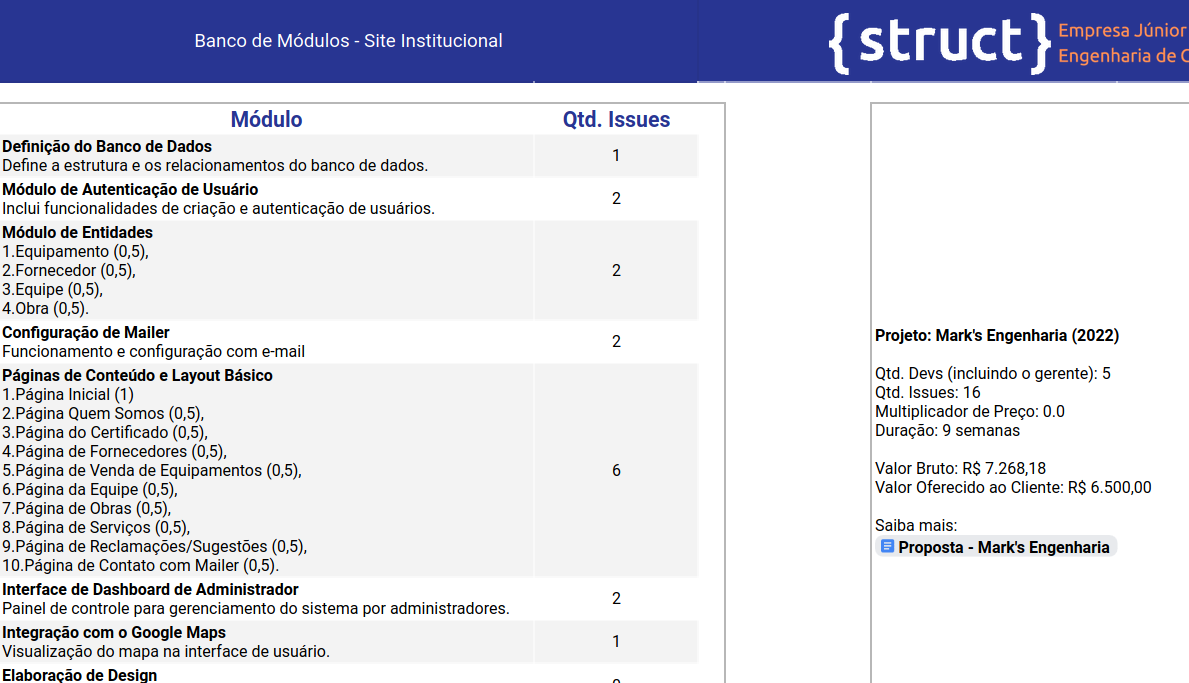
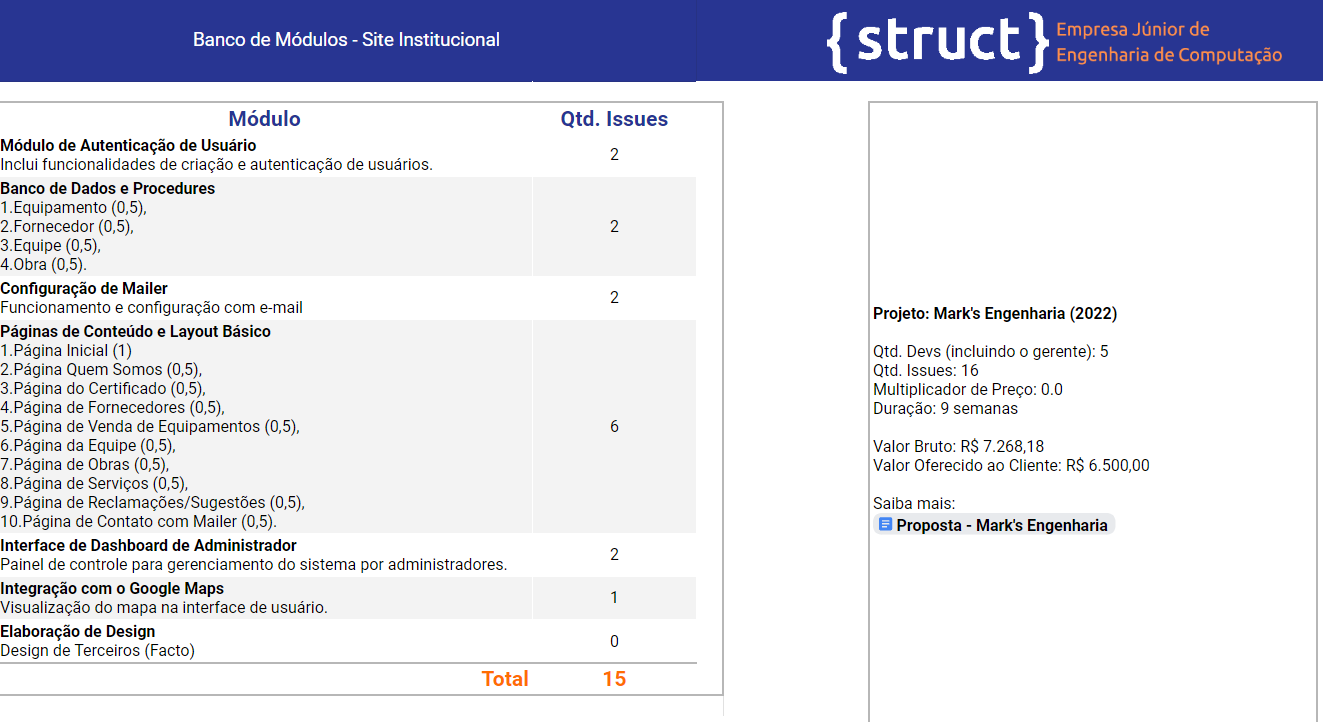
atualiza as informações

Changed region(s): [[0.0, 0.0, 1.0, 1.0], [0.6535, 0.3997, 0.9647, 0.8302]]

diff --git a/organizacao-interna/diretoria-comercial/preficicacao.md b/organizacao-interna/diretoria-comercial/preficicacao.md
@@ -42,7 +42,7 @@ Há algumas informações necessárias que você precisa saber antes de prossegu
 
 ## Metodologia de Precificação
 
-Para aplicar a nossa metodologia utilizamos uma [planilha :icon-link-external:](https://docs.google.com/spreadsheets/d/1D9zf_UfbokxbzPC7ISCn73gs7Sdq0HRHIehmjYmfDvU/edit?usp=sharing) que contém uma página de Cálculo de Orçamento, onde multiplicamos o valor/hora **(atualmente R$ 13,00)**, a quantidade de membros e a quantidade de issues para obter o orçamento total. Incluímos **1 ano de hospedagem com a Struct** para projetos de sites por **R$ 400,00** (não inclui o valor da anuidade do domínio do site). Nos anos seguintes, o valor será o mesmo, mas se haver ajustes de preço comunicamos ao cliente previamente. Além disso, é importante falar para o cliente que ele pode hospedar seus sites com outros provedores, se preferir.
+Para aplicar a nossa metodologia utilizamos uma [planilha :icon-link-external:](https://docs.google.com/spreadsheets/d/1D9zf_UfbokxbzPC7ISCn73gs7Sdq0HRHIehmjYmfDvU/edit?usp=sharing) que contém uma página de Cálculo de Orçamento, onde multiplicamos o valor/hora **(atualmente R$ 13,00)**, a quantidade de membros e a quantidade de issues para obter o orçamento total. Incluímos **1 ano de hospedagem com a Struct** para projetos de sites por **R$ 300,00** (não inclui o valor da anuidade do domínio do site). Nos anos seguintes, o valor será o mesmo, mas se haver ajustes de preço comunicamos ao cliente previamente. Além disso, é importante falar para o cliente que ele pode hospedar seus sites com outros provedores, se preferir.
 
 ![Cálculo de Orçamento](/organizacao-interna/assets/comercial/precificacao-calculoOrcamento.png)
 
@@ -55,14 +55,14 @@ A planilha possui diferentes páginas para cada tipo de projeto, como site insti
 ![Página Site Institucional](/organizacao-interna/assets/comercial/precificacao-paginaModulos.png)
 
 {% hint style="info" %}
-Nos módulos de **Entidades** e **Páginas de Conteúdo e Layout Básico**, usamos meia issue (0,5) para as entidades e páginas fáceis de implementar podendo aumentar ou diminuir o valor unitário da issue dependendo do projeto. Não existe meia issue na prática, porém foi definido assim por convenção devido a grande componentização e reúso de código dessas partes do projeto.
+Nos módulos de **Banco de Dados e Procedures** e **Páginas de Conteúdo e Layout Básico**, usamos meia issue (0,5) para as entidades e páginas fáceis de implementar podendo aumentar ou diminuir o valor unitário da issue dependendo do projeto. Não existe meia issue na prática, porém foi definido assim por convenção devido a grande componentização e reúso de código dessas partes do projeto.
 {% endhint %}
 
-A **quantidade de parcelas depende da duração do projeto**, seguimos a regra de **qtd de meses de duração do projeto** + **1** para evitar clientes inadimplentes, pois se entregarmos o projeto antes dele pagar todas as parcelas, a percepção de valor dele sobre o serviço pode diminuir e não querer mais pagar, e não temos estrutura para sair processando as pessoas 😕. Pelo mesmo motivo não assinamos contratos para fazer o projeto depois porque provavelmente ele nunca vai começar nem vamos receber o dinheiro, os mais velhos recomendam.
+A **quantidade de parcelas depende da duração do projeto**, seguimos a regra de **qtd de meses de duração do projeto** + **1** para evitar clientes inadimplentes, pois se entregarmos o projeto antes dele pagar todas as parcelas, a percepção de valor dele sobre o serviço pode diminuir e não querer mais pagar, e não temos estrutura para sair processando as pessoas 😕. Pelo mesmo motivo não assinamos contratos para fazer o projeto depois porque provavelmente ele nunca vai começar nem vamos receber o dinheiro.
 
 ## Hospedagem
 
-A Struct cobra R$ 400,00 para **hospedar por 1 ano** e fazer manutenção durante esse período que é a possibilidade de alteração de conteúdo sem mudança de estrutura do site (como alteração de cores, links, imagens, textos).
+A Struct cobra R$ 300,00 para **hospedar por 1 ano**.
 
 Os preços da compra de domínio são variados, lembre-se de comentar sobre isso com o cliente, pois geralmente, quem compra o domínio é quem será o proprietário legal do mesmo.
 
